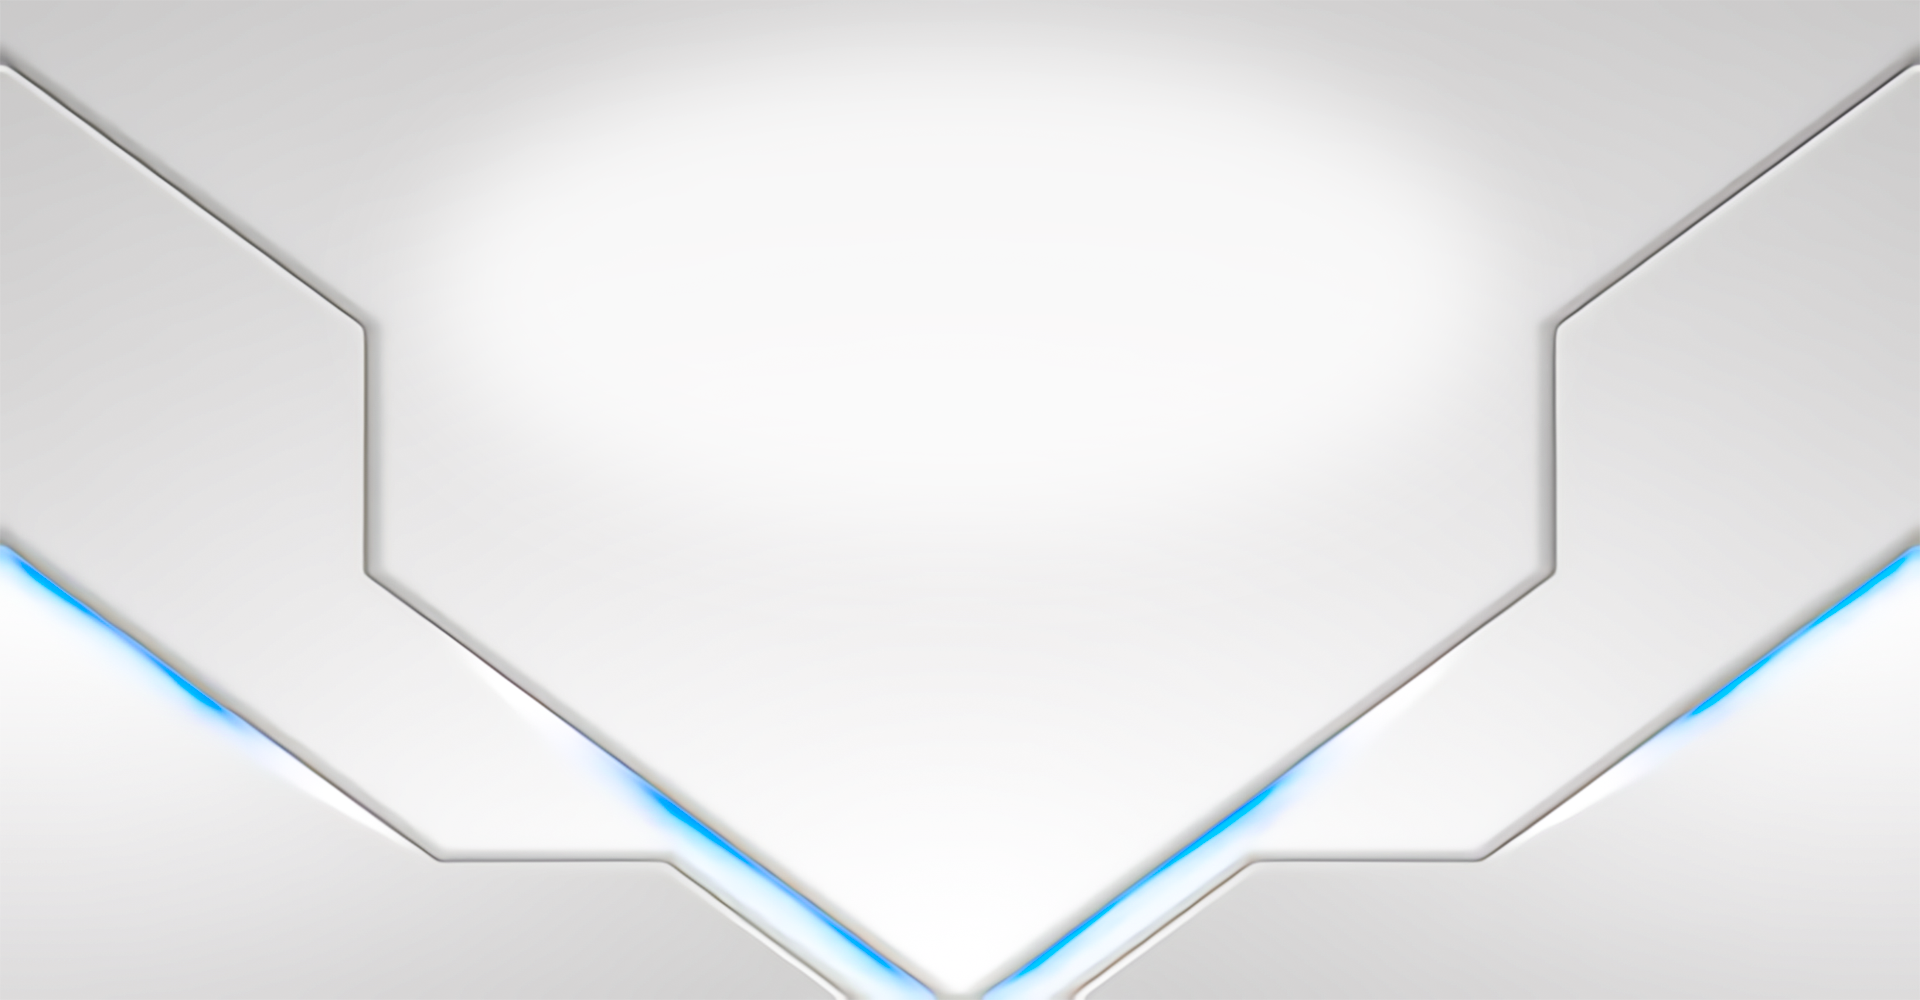
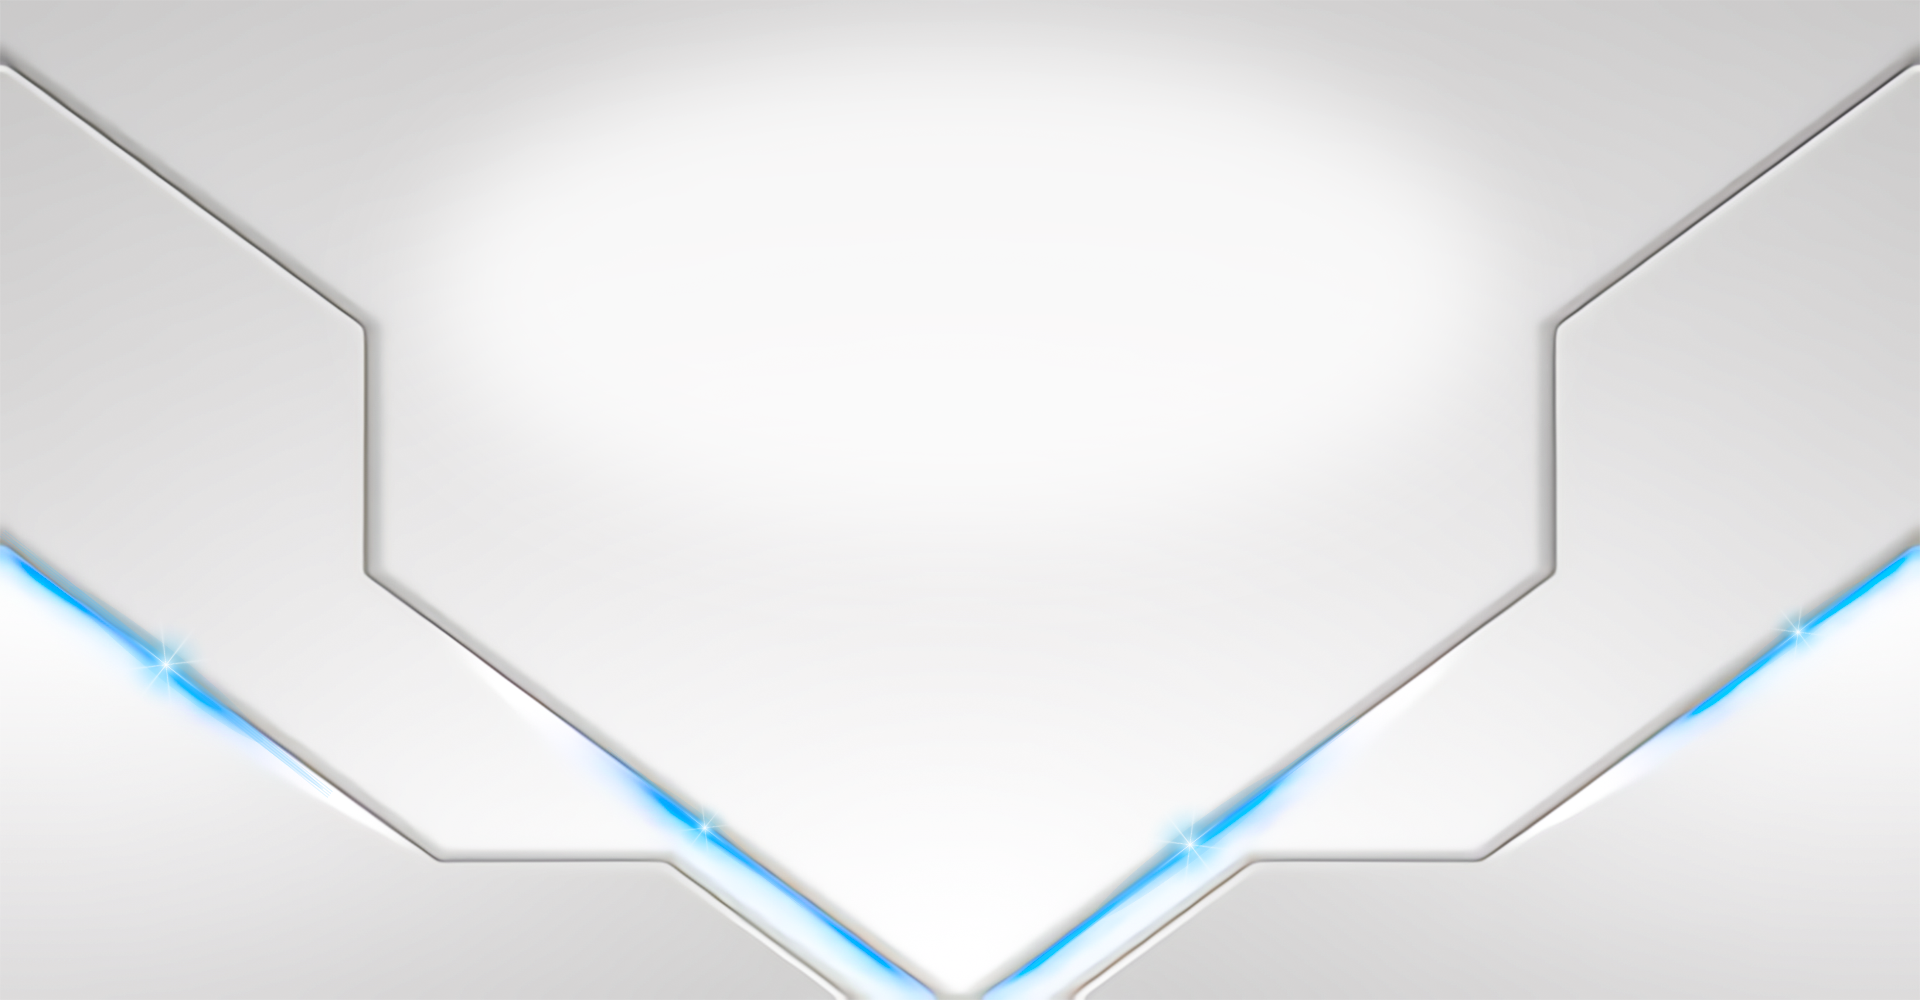
113-0319-2_N

diff --git a/scss/_main.scss b/scss/_main.scss
@@ -53,46 +53,6 @@ html {
                 }
             }
 
-            .light1 {
-                width: 333px;
-                height: 268px;
-                position: absolute;
-                bottom: 163px;
-                left: -464px;
-                animation: lag 1.2s linear 1.1s infinite;
-                animation-fill-mode: backwards;
-            }
-
-            .light2 {
-                width: 202px;
-                height: 163px;
-                position: absolute;
-                bottom: 49px;
-                left: 143px;
-                animation: lag 1.1s linear 1.2s infinite;
-                animation-fill-mode: backwards;
-            }
-
-            .light3 {
-                width: 339px;
-                height: 262px;
-                position: absolute;
-                bottom: -15px;
-                right: 100px;
-                animation: lag 1.2s linear 1s infinite;
-                animation-fill-mode: backwards;
-            }
-
-            .light4 {
-                width: 225px;
-                height: 173px;
-                position: absolute;
-                bottom: 243px;
-                right: -460px;
-                animation: lag 1s linear 0s infinite;
-                animation-fill-mode: backwards;
-            }
-
             .football {
                 width: 283px;
                 height: 279px;

diff --git a/index.html b/index.html
@@ -15,10 +15,6 @@
         <div class="logo">
             <img src="./img/404txt.png" alt="">
         </div>
-        <div class="light1"></div>
-        <div class="light2"></div>
-        <div class="light3"></div>
-        <div class="light4"></div>
         <div class="football"></div>
         <div class="basketball"></div>
         <div class="gear"></div>
